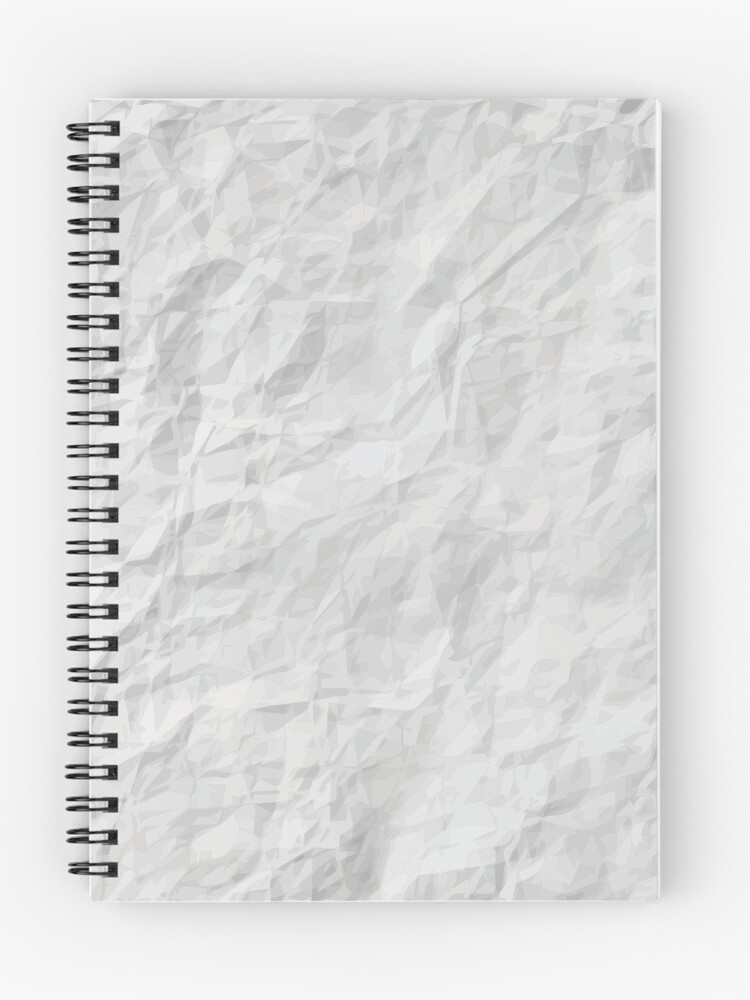
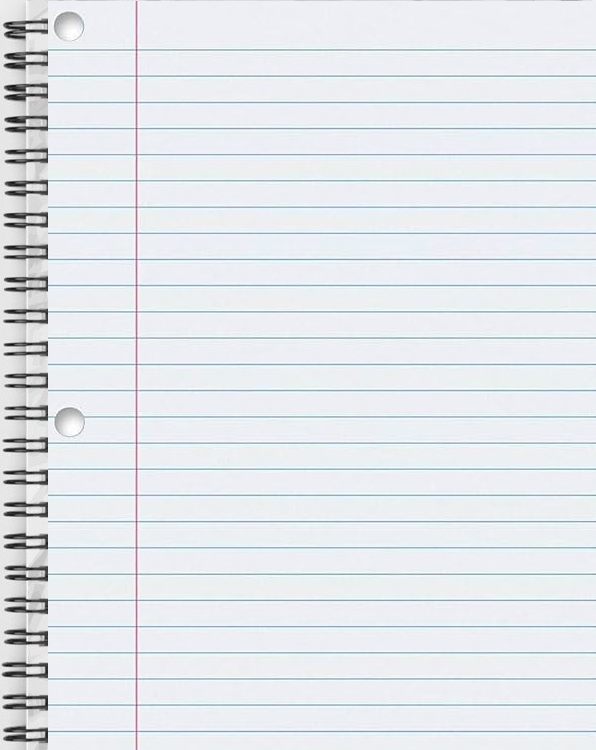
menus: move the planned-menus tally to the top-right of the strip

diff --git a/src/app/components/meal-binder/meal-binder.scss b/src/app/components/meal-binder/meal-binder.scss
@@ -9,13 +9,14 @@
   display: flex;
   flex-direction: column;
   min-height: 0;
-  border-left: 1px solid #4a4a4a;
+  // No left border — the paper (and its spiral binding) runs flush to the very
+  // left edge with nothing over it.
   // Spiral-bound notebook paper across the whole Binder.
   background-color: #ececec;
   background-image: url('/images/paper-spiral-bound.jpg');
   background-repeat: repeat-y;
   background-size: 100% auto;
-  background-position: top center;
+  background-position: top left;
 }
 
 .binder {
@@ -653,13 +654,13 @@
     align-items: baseline;
     gap: 4px;
     padding: 5px 16px 6px;
-    background: rgba(80, 80, 80, 0.22); // very faint grey scrim over the paper
-    border: 1px solid rgba(60, 60, 60, 0.55); // the outline rule around the tab
+    background: #ffffff; // hard, solid white (no opacity)
+    border: 1px solid #000000; // 1px black outline
     border-radius: 10px 10px 0 0;
 
     .section-label,
     .section-count {
-      color: #1a1a1a; // black ink on the paper — no blue, no white
+      color: #1a1a1a; // black ink
       text-shadow: none;
     }
   }
@@ -790,21 +791,24 @@
     font-weight: 400;
     color: #4da6ff;
   }
+  // Menus accordion chevron — a black disk with a white arrow (like the cards).
   .section-chevron {
     margin-left: auto; // pushed to the far right; the count stays by the title
-    width: 18px;
-    height: 18px;
-    font-size: 18px;
-    color: #9aa0a6;
+    box-sizing: border-box;
+    display: inline-flex;
+    align-items: center;
+    justify-content: center;
+    width: 22px;
+    height: 22px;
+    font-size: 16px;
+    line-height: 16px;
+    color: #ffffff;
+    background: #1a1a1a;
+    border-radius: 50%;
   }
 
   &:hover {
-    color: #ffffff;
-    // The Binder indicator keeps its yellow — only the plain icons/chevron dim.
-    .section-icon:not(.section-icon-binder),
-    .section-chevron {
-      color: #c8c8c8;
-    }
+    .section-icon:not(.section-icon-binder) { color: #c8c8c8; }
   }
 }
 
@@ -827,10 +831,10 @@
   flex-direction: column;
   gap: 6px;
   padding: 4px 4px 4px 12px; // tight top/bottom around the thumbnail; tight RHS for the trash
-  border: 1px solid #4a4a4a;
+  border: 1px solid #000000; // 1px black outline
   border-radius: 8px;
-  background: #3a3a3a; // lightened to match the macros bar grey (flat, no gradient)
-  box-shadow: 0 2px 4px rgba(0, 0, 0, 0.3);
+  background: rgba(255, 255, 255, 0.5); // see-through white over the paper
+  box-shadow: 0 1px 3px rgba(0, 0, 0, 0.25);
 }
 
 .binder-card {
@@ -892,8 +896,8 @@
     flex: 1 1 auto;
     min-width: 0;
     font-size: 14px;
-    font-weight: 500;
-    color: #f1f1f1;
+    font-weight: 600;
+    color: #1a1a1a; // black text on the see-through white card
     white-space: nowrap;
     overflow: hidden;
     text-overflow: ellipsis;
@@ -946,7 +950,8 @@
     white-space: nowrap;
   }
 
-  // Chevron that shows/hides the extra macros — leads the summary discs.
+  // Chevron that shows/hides the extra macros — a black disk with a white arrow
+  // so it reads clearly on any card background.
   .card-toggle {
     flex: 0 0 auto;
     display: inline-flex;
@@ -956,13 +961,13 @@
     height: 22px;
     padding: 0;
     border: none;
-    border-radius: 4px;
-    background: transparent;
-    color: #9aa0a6;
+    border-radius: 50%;
+    background: #1a1a1a;
+    color: #ffffff;
     cursor: pointer;
 
-    .mat-icon { width: 18px; height: 18px; font-size: 18px; line-height: 18px; }
-    &:hover { color: #ffffff; }
+    .mat-icon { width: 16px; height: 16px; font-size: 16px; line-height: 16px; color: #ffffff; }
+    &:hover { background: #000000; }
   }
 
   // Extra breathing room before the trash so a user aiming for the chevron

diff --git a/src/app/components/menu-card-row/menu-card-row.scss b/src/app/components/menu-card-row/menu-card-row.scss
@@ -29,12 +29,12 @@
 // of the cards, labelling the row as the rotation's "menus". Lowercase Fredoka to
 // match the macro-bar labels; sunken gray so it reads as carved into the surface.
 // Shrinks away (min-width:0 + clip) once the cards fill the strip.
-// Planned-days tally — pinned to the strip's bottom-right (bottom-aligned with
-// the "menus" watermark), moved down from the toolbar.
+// Planned-days tally — pinned to the strip's TOP-right so it reads as belonging
+// to the Menus area (not the meals grouping below).
 .span-badge {
   position: absolute;
   right: 12px;
-  bottom: 6px;
+  top: 6px;
   z-index: 2;
   display: inline-flex;
   align-items: center;
